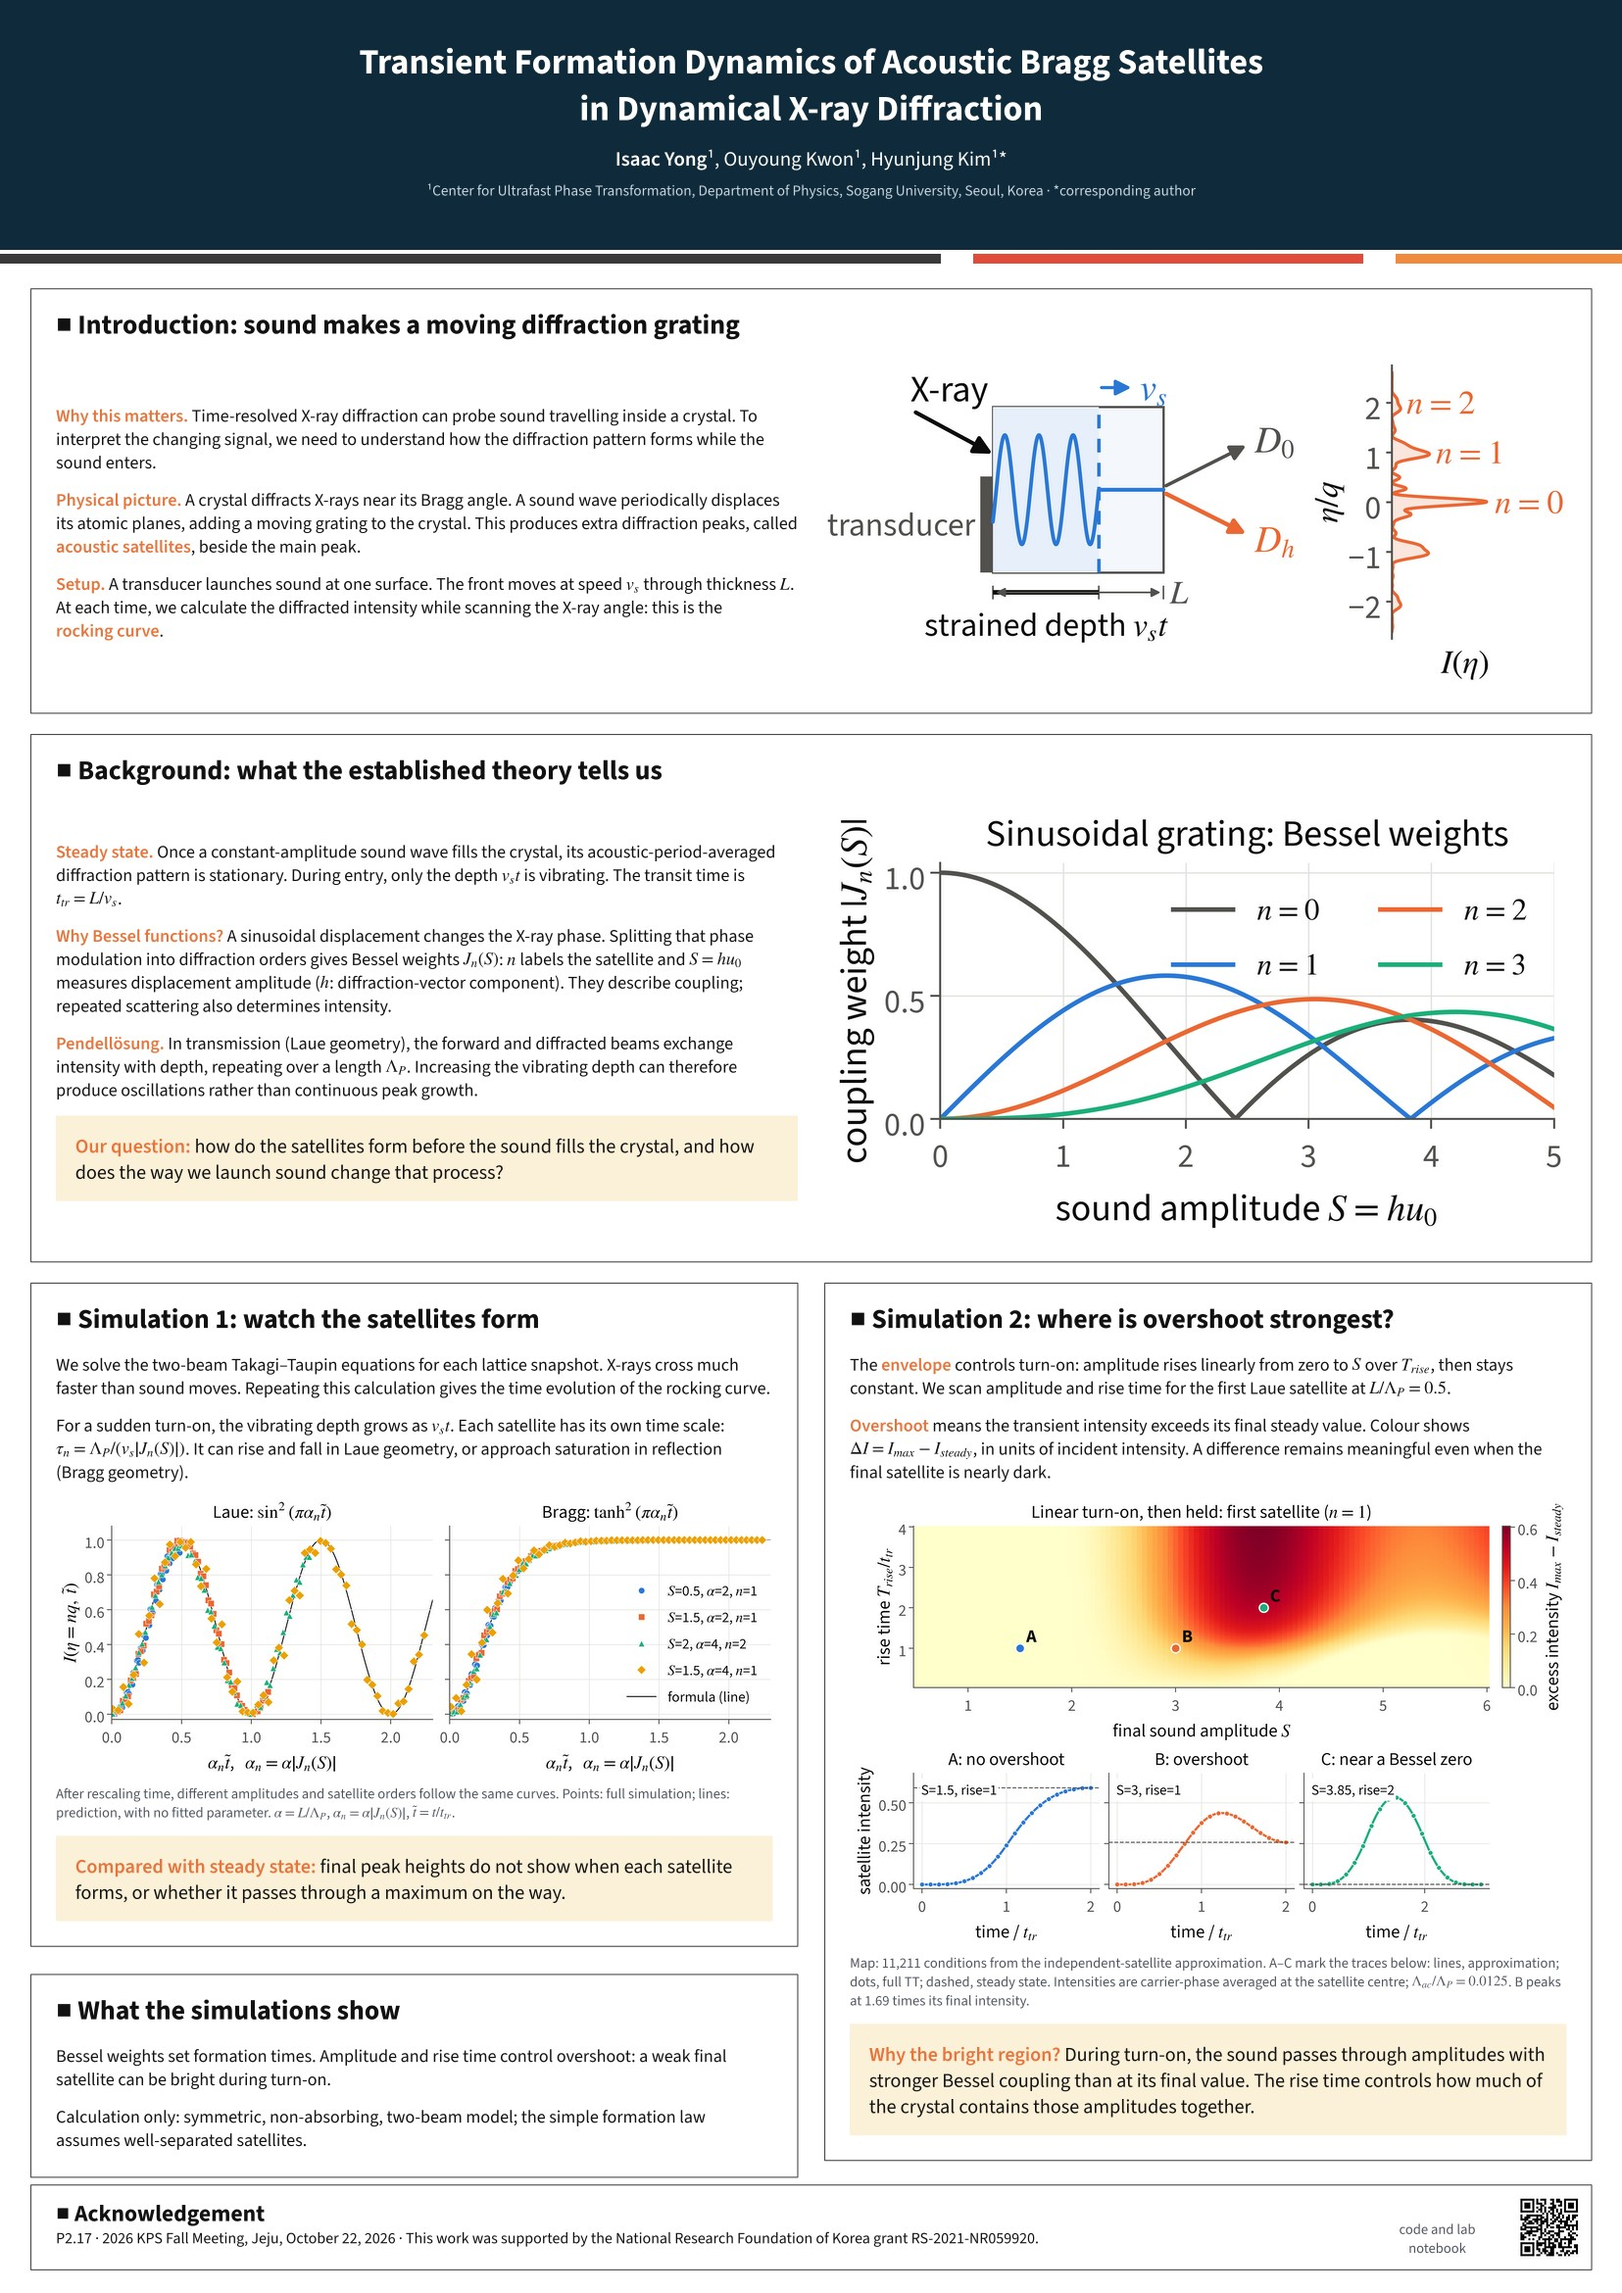
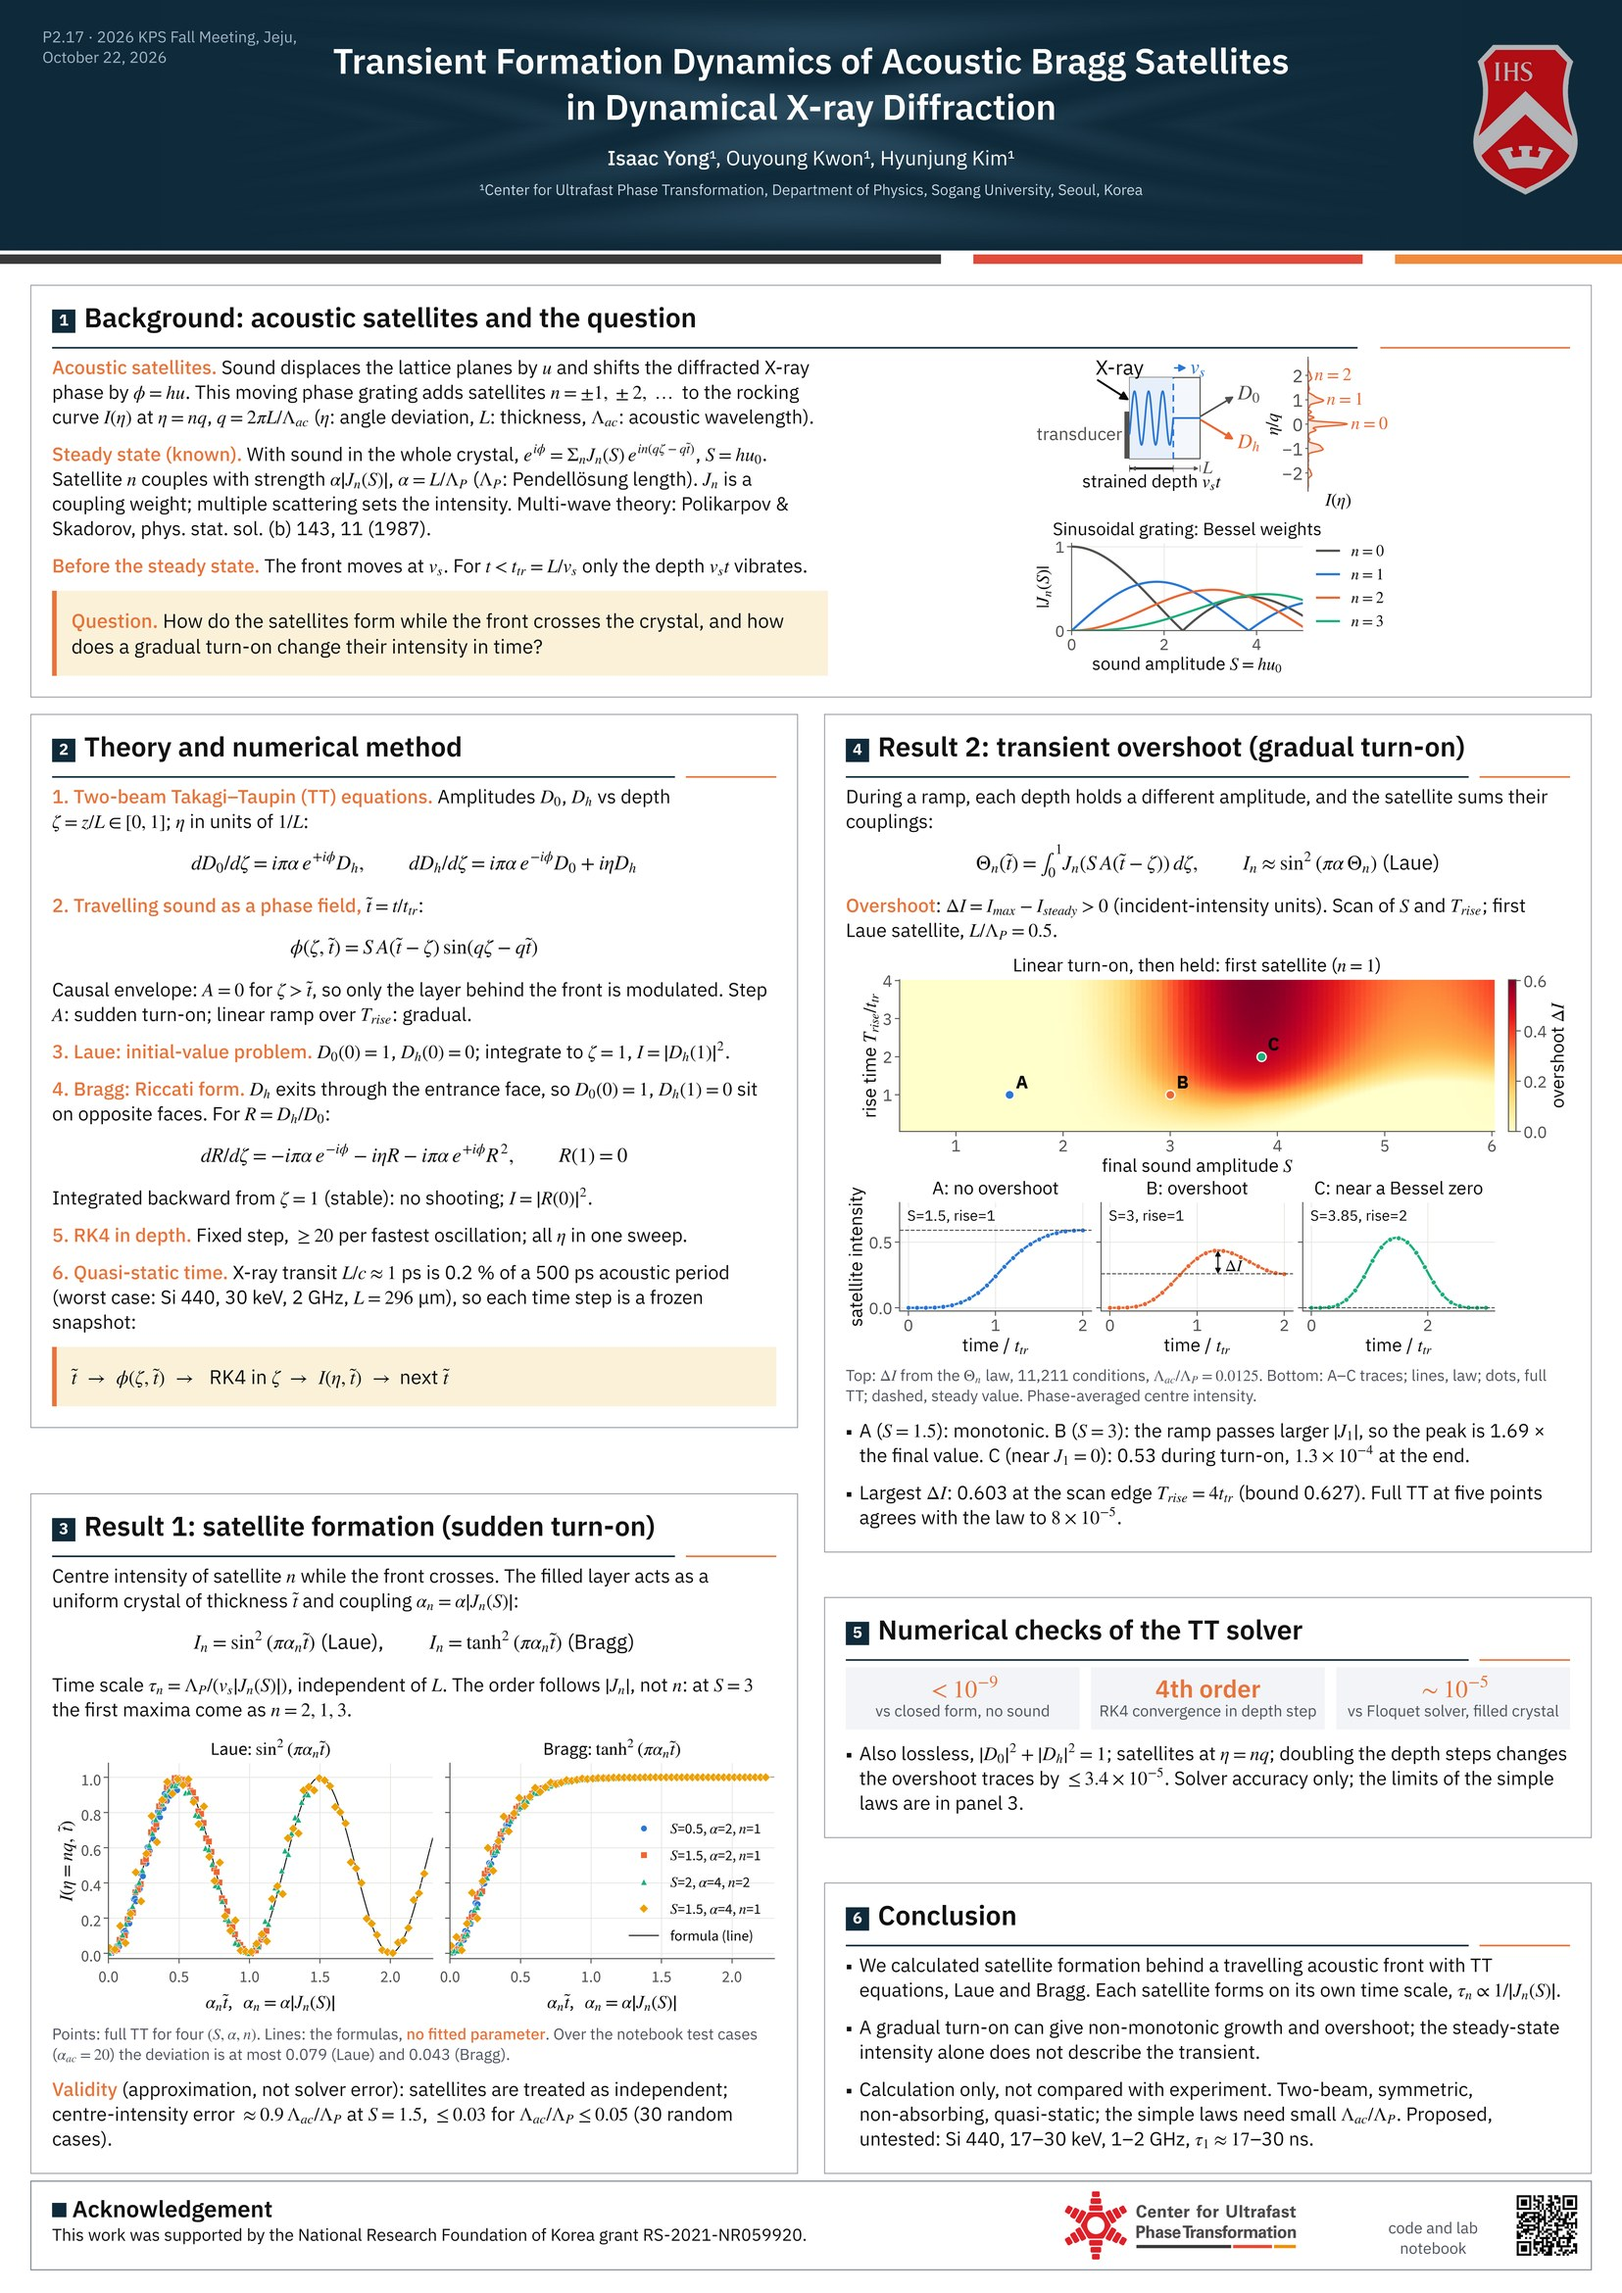
README: overshoot result, corrected validity and quasi-static numbers

diff --git a/README.md b/README.md
@@ -61,8 +61,8 @@ stores the rocking curve. Stacking these gives a map I(η, t). Every result belo
 such maps.
 
 Freezing the lattice is safe here: the X-rays cross the crystal in about 1 ps, while one acoustic
-period is about 500 ps, so the lattice moves by less than 1 % of a period during one crossing
-(notebook Entry 62).
+period is about 500 ps, so one crossing takes about 0.2 % of a period even in the least
+favourable proposed case (Si 440, 30 keV, 2 GHz, L = 296 µm; notebook Entry 62).
 
 The problem reduces to a few dimensionless numbers:
 
@@ -98,20 +98,32 @@ crystal thickness, and the satellite with the largest |J<sub>n</sub>(S)| forms f
 
 ![Full TT (points) and the formulas of result 1 (lines)](https://raw.githubusercontent.com/NaNIsaac/TraTT/main/figures/poster/f1_collapse.png)
 
-**2. Time-dependent acoustic amplitude** (Entries 28, 30). If the amplitude A(t) changes in
+**2. Gradual turn-on and overshoot** (Entries 28, 30, 67). If the amplitude A(t) changes in
 time, different depths of the crystal have different amplitudes. Satellite n then depends on the
 amplitude during the last transit time, Θ<sub>n</sub> = ∫J<sub>n</sub>(S A(t−ζ)) dζ, and not only
-on the present amplitude. Example: a satellite with J<sub>n</sub> = 0 at the final amplitude has
-zero intensity in the steady state, but it is the strongest satellite for some time during
-formation.
+on the present amplitude. With a linear turn-on over T<sub>rise</sub> the satellite can overshoot:
+its maximum during the turn-on exceeds the steady value. In a scan of 11,211 (S, T<sub>rise</sub>)
+conditions for the first Laue satellite (α = 0.5, R = 0.0125) the largest overshoot is 0.603 of the
+incident intensity, at the edge of the scan (T<sub>rise</sub> = 4t<sub>tr</sub>). The map comes from
+the Θ<sub>n</sub> law; full TT at five points agrees with it to 8×10⁻⁵. Near a Bessel zero
+(J<sub>1</sub> = 0 at the final amplitude) the satellite reaches 0.53 during the turn-on and
+1.3×10⁻⁴ at the end.
 
-**3. Validity of the independent-satellite approximation** (Entries 52–54). Result 1 treats each
-satellite independently. The error is below 5 % for R = Λ<sub>ac</sub>/Λ<sub>P</sub> ≲ 0.3. For
-larger R the satellites are coupled through the forward beam, and the formulas of result 1 are not
-valid.
+![Overshoot map from the Θ<sub>n</sub> law and three traces checked against full TT](https://raw.githubusercontent.com/NaNIsaac/TraTT/main/figures/poster/f7_overshoot.png)
+
+**3. Validity of the independent-satellite approximation** (Entries 19, 26, 52–54). Results 1
+and 2 treat each satellite independently, so their error grows with
+R = Λ<sub>ac</sub>/Λ<sub>P</sub>. For the satellite centre intensity in time it is about 0.9R at
+S = 1.5 and at most 0.03 for R ≤ 0.05 (30 random cases). The steady-state satellite populations
+of the filled crystal reach a 5 % median error at R = 0.34–0.57. For larger R the satellites are
+coupled through the forward beam. This is a limit of the approximate laws, not of the TT solver.
+
+**Solver checks.** Against the closed-form Laue and Bragg solutions without sound the error is
+below 10⁻⁹; the RK4 step converges at fourth order; against the independent Floquet solver for a
+filled crystal the agreement is about 10⁻⁵ (Entry 42). The 54 tests in `tests/` cover these.
 
 **4. Outlook: measurement of the phonon spectrum** (Entries 59, 64). For small strain, the Fourier
-component of the reflectivity R(t) at frequency ω is the strain spectrum multiplied by a crystal
+component of the reflectivity at frequency ω is the strain spectrum multiplied by a crystal
 transfer function H(ω). We obtained H(ω) analytically to first order. Inside the Darwin width (the
 angular range of strong reflection) it agrees with full TT, while the perturbation theory of
 Sondhauss & Wark (2003) differs from full TT by a factor of 3–8. Comparison with previous work is
@@ -136,6 +148,9 @@ uv run pytest -q                        # 54 tests: analytic limits, Floquet cro
 uv run python explore/make_poster_figs.py   # poster figures -> figures/poster/
 uv run python poster/build.py               # poster/poster.md -> poster/out/poster.pdf
 ```
+
+The banner and logos are read from `poster/assets/`, which is not in the repository; without it the
+poster builds with a plain header.
 
 ## Layout
 
